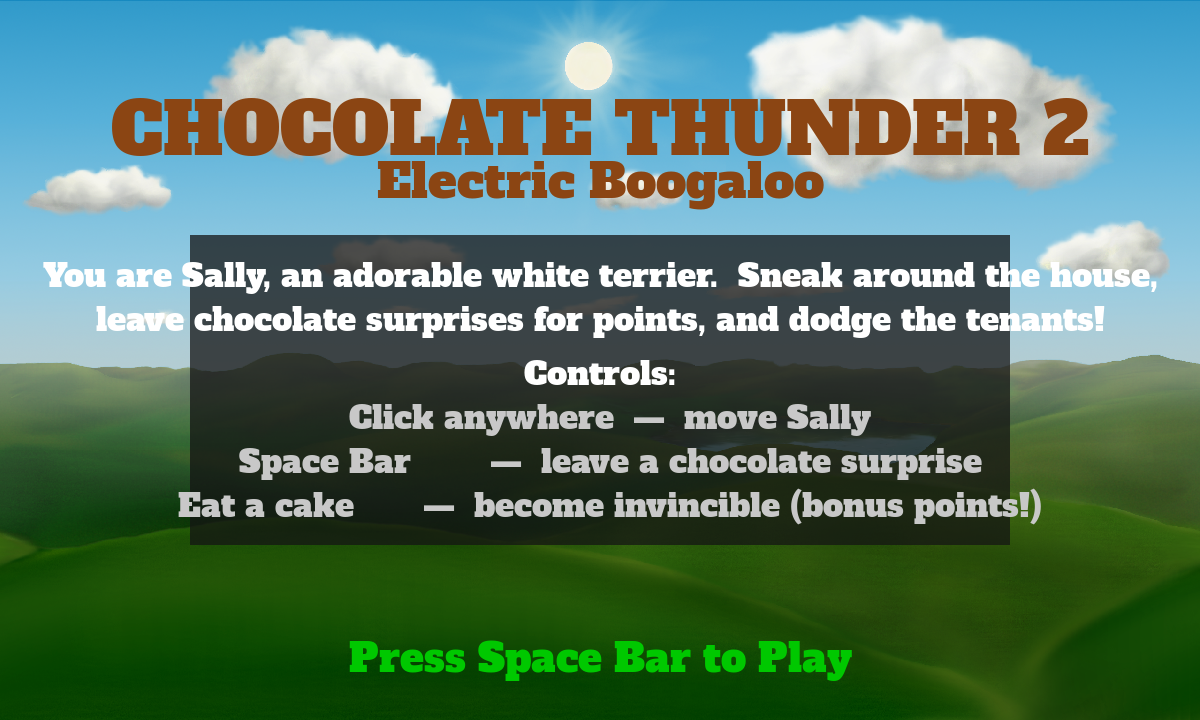
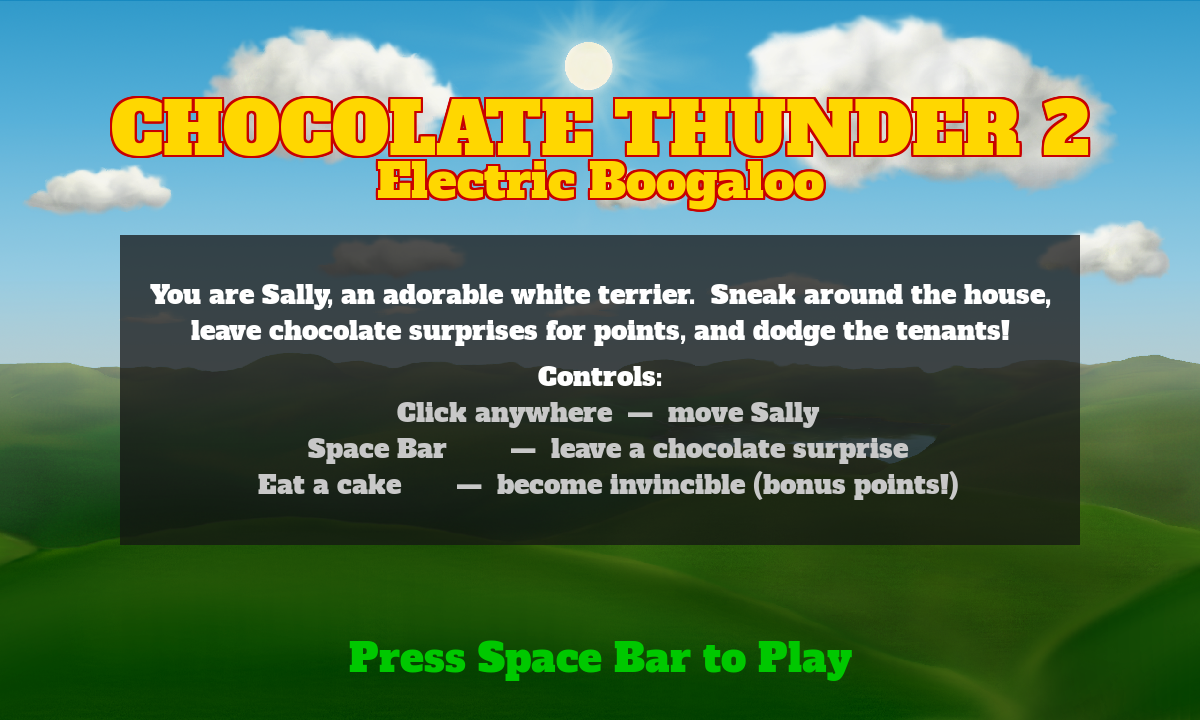
fix: fix title screen overlay overflow and add AC/DC-style title
Box widened 820→960px, body font 32→26pt so all instruction lines
fit. Title uses gold-yellow fill + 2px deep-red outline via
_blit_outlined for a thunderbolt/AC/DC rock poster look.

Changed region(s): [[0.0308, 0.3056, 0.9558, 0.7639], [0.0925, 0.1222, 0.925, 0.3056]]

diff --git a/game/screens/start.py b/game/screens/start.py
@@ -30,6 +30,10 @@ _CONTROLS = (
 )
 _PROMPT = "Press Space Bar to Play"
 
+_TITLE_FILL    = (255, 215,   0)   # gold yellow
+_TITLE_OUTLINE = (200,   0,   0)   # deep red
+_OUTLINE_PX    = 2
+
 
 class StartScreen:
     def __init__(self, screen: pygame.Surface, state_machine, audio):
@@ -57,17 +61,17 @@ class StartScreen:
     def _setup_fonts(self) -> None:
         self._font_title  = fonts.load(72)
         self._font_sub    = fonts.load(48)
-        self._font_body   = fonts.load(32)
+        self._font_body   = fonts.load(26)
         self._font_prompt = fonts.load(40)
 
     def _setup_overlay(self) -> None:
-        w, h = 820, 310
+        w, h = 960, 310
         self._overlay = pygame.Surface((w, h), pygame.SRCALPHA)
         self._overlay.fill((20, 20, 20, 190))
         self._overlay_rect = self._overlay.get_rect(
             center=(config.SCREEN_WIDTH // 2, config.SCREEN_HEIGHT // 2 + 30)
         )
-        # Center the blurb + controls block inside the panel.
+        # Center the blurb + controls block vertically inside the panel.
         self._body_line_h = self._font_body.get_linesize()
         block_h = self._body_line_h * (len(_BLURB) + len(_CONTROLS)) + 10
         self._text_top = self._overlay_rect.top + (h - block_h) // 2
@@ -92,11 +96,9 @@ class StartScreen:
         # Dark overlay panel.
         self.screen.blit(self._overlay, self._overlay_rect)
 
-        cx = config.SCREEN_WIDTH // 2
-
-        # Title.
-        self._blit_centered(self._font_title,  _TITLE_1, config.BROWN,      y=80)
-        self._blit_centered(self._font_sub,    _TITLE_2, config.BROWN,      y=148)
+        # Title — yellow fill with red outline.
+        self._blit_outlined(self._font_title, _TITLE_1, y=80)
+        self._blit_outlined(self._font_sub,   _TITLE_2, y=148)
 
         # Blurb + controls — vertically centered inside the overlay panel.
         y = self._text_top
@@ -113,9 +115,21 @@ class StartScreen:
         # Prompt.
         self._blit_centered(self._font_prompt, _PROMPT, config.GREEN, y=630)
 
+    # ------------------------------------------------------------------
     def _blit_centered(
         self, font: pygame.font.Font, text: str, color: tuple, y: int
     ) -> None:
         surf = font.render(text, True, color)
         rect = surf.get_rect(centerx=config.SCREEN_WIDTH // 2, top=y)
         self.screen.blit(surf, rect)
+
+    def _blit_outlined(self, font: pygame.font.Font, text: str, y: int) -> None:
+        cx = config.SCREEN_WIDTH // 2
+        outline = font.render(text, True, _TITLE_OUTLINE)
+        fill    = font.render(text, True, _TITLE_FILL)
+        for dx in range(-_OUTLINE_PX, _OUTLINE_PX + 1):
+            for dy in range(-_OUTLINE_PX, _OUTLINE_PX + 1):
+                if dx == 0 and dy == 0:
+                    continue
+                self.screen.blit(outline, outline.get_rect(centerx=cx + dx, top=y + dy))
+        self.screen.blit(fill, fill.get_rect(centerx=cx, top=y))

diff --git a/.claude/changelog.md b/.claude/changelog.md
@@ -2,6 +2,16 @@
 
 All notable changes to ChocolateThunder2: ElectricBoogaloo are documented here.
 
+## [Unreleased] — Title screen polish
+
+### Changed
+- Overlay box widened 820→960px; body font reduced 32→26pt so all instruction
+  lines fit horizontally inside the panel (longest line was 1115px vs 820px box).
+- Title "CHOCOLATE THUNDER 2" and subtitle now render with gold-yellow fill +
+  deep-red 2px outline (`_blit_outlined`) — AC/DC thunderbolt aesthetic.
+
+---
+
 ## [Unreleased] — Desktop launcher + startup fix
 
 ### Added
